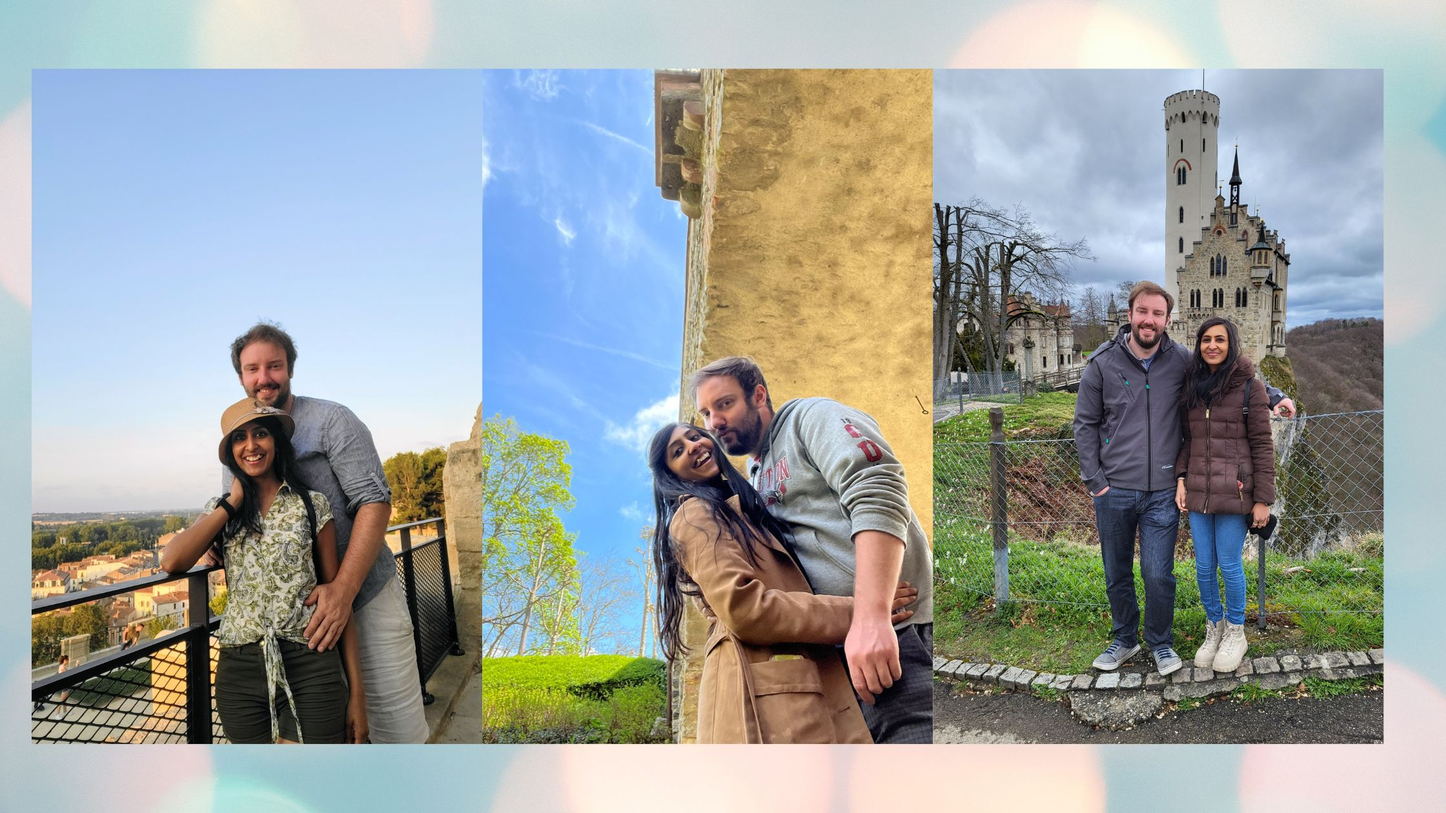
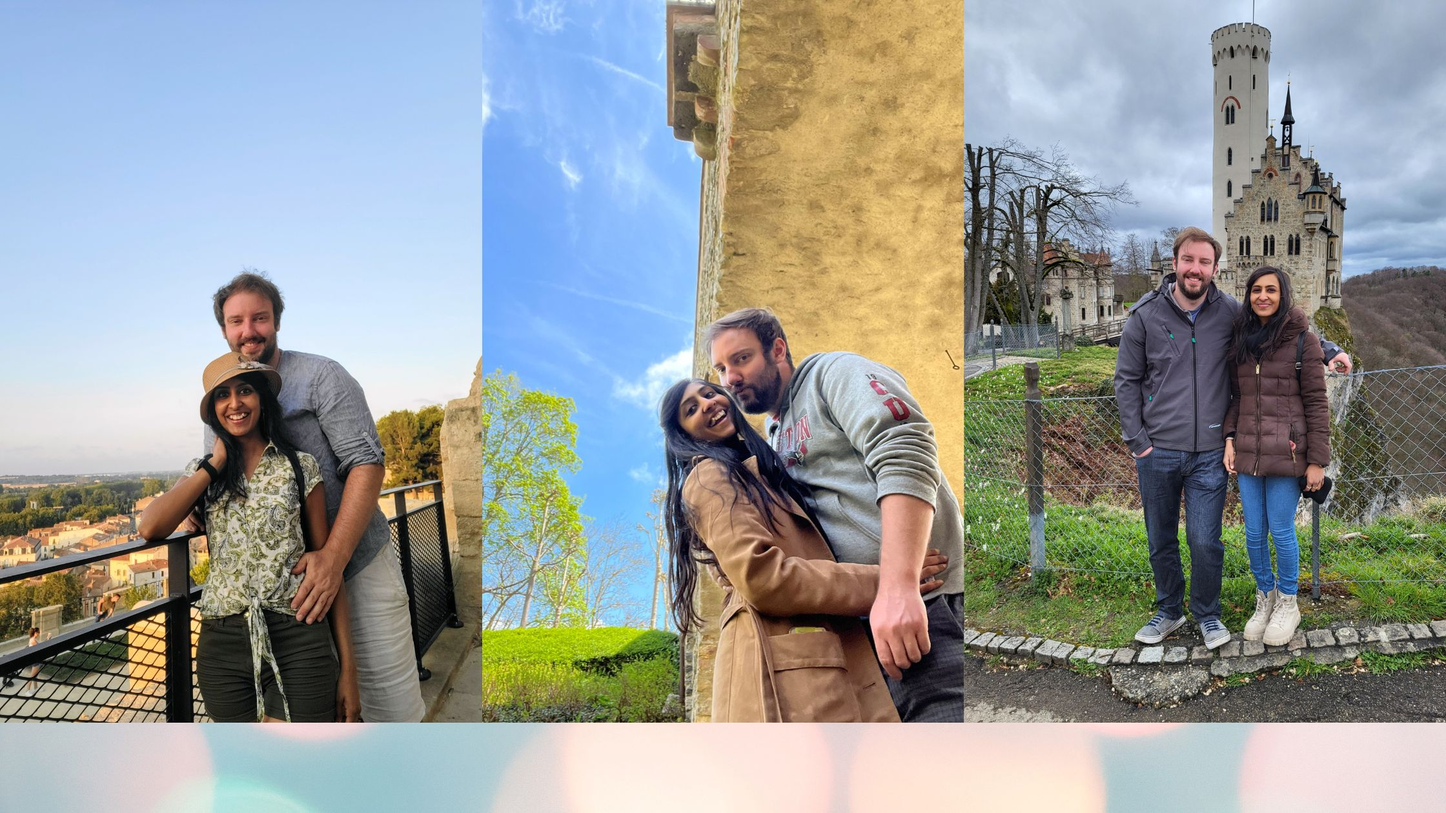
add our story

diff --git a/_layouts/home.html b/_layouts/home.html
@@ -23,12 +23,12 @@
         </div>
     </section>
 
-    <!-- Main
+    <!-- Main -->
     <div id="main">
 
         {% include tiles.html %}
 
-        <section id="two">
+       <!-- <section id="two">
             <div class="inner">
                 <header class="major">
                     <h2>Massa libero</h2>
@@ -38,11 +38,11 @@
                     <li><a href="landing.html" class="button next">Get Started</a></li>
                 </ul>
             </div>
-        </section>
+        </section>  -->
 
     </div>
-    {% include footer.html %} 
-    -->
+   <!-- {% include footer.html %} -->
+    
 </body>
 
 </html>

diff --git a/_includes/header.html b/_includes/header.html
@@ -3,7 +3,7 @@
 
 <!-- Header -->
 <header id="header"{% if page.layout == "landing" %} class="alt style2"{% endif %}{% if page.layout == "home" %} class="alt"{% endif %}>
-	<a href="{{ "" | absolute_url }}/" class="logo"><strong>{{ site.title }}</strong> <span>{{ site.subtitle }}</span></a>
+	<!-- <a href="{{ "" | absolute_url }}/" class="logo"><strong>{{ site.title }}</strong> <span>{{ site.subtitle }}</span></a> -->
 	<nav>
 		<a href="#menu">Menu</a>
 	</nav>

diff --git a/ourstory.md b/ourstory.md
@@ -1,0 +1,15 @@
+---
+layout: post
+title: Our Story
+description: How we met and where we're going
+image: assets/images/collage.png
+nav-menu: true
+permalink: /our-story/
+show-tile: true
+---
+
+Our story began in August, 2023 in a restaurant close to the university where we both worked. A casual dinner and a beautiful conversation later, sparks flew and we both knew — we were in for a long haul! 
+
+As time passed, we bonded over food, boardgames, and nerdy conversations. We learned to love our cultural differences, as we began enjoying the blend of Indian and German cuisines, festivals, and values. Slowly and steadily, we fell in love! Now, after countless dates, travels, and eventually meeting our families, we got engaged in November 2025.     
+
+We are looking forward to committing ourselves forever! Reel yourselves in for a fun, inter-cultural wedding in December 2026! We are so excited to celebrate this new chapter with you - both in India and Germany!

diff --git a/landing.md b/landing.md
@@ -4,6 +4,7 @@ layout: landing
 description: 'Lorem ipsum dolor sit amet nullam consequa<br />sed veroeros. tempus adipiscing nulla.'
 image: assets/images/Banner_test.jpg
 nav-menu: true
+show_tile : false
 ---
 
 <!-- Main -->

diff --git a/elements.md b/elements.md
@@ -3,6 +3,7 @@ layout: page
 title: Elements
 image: assets/images/pic01.jpg
 nav-menu: true
+show_tile: false
 ---
 
 <!-- Main -->
